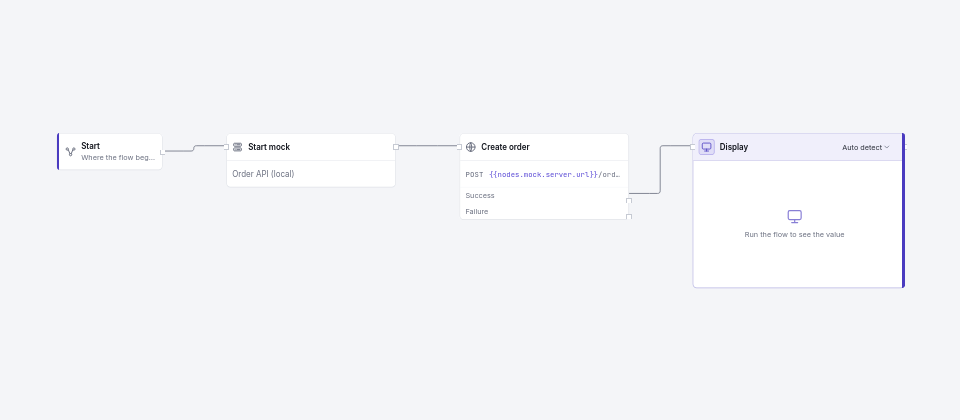
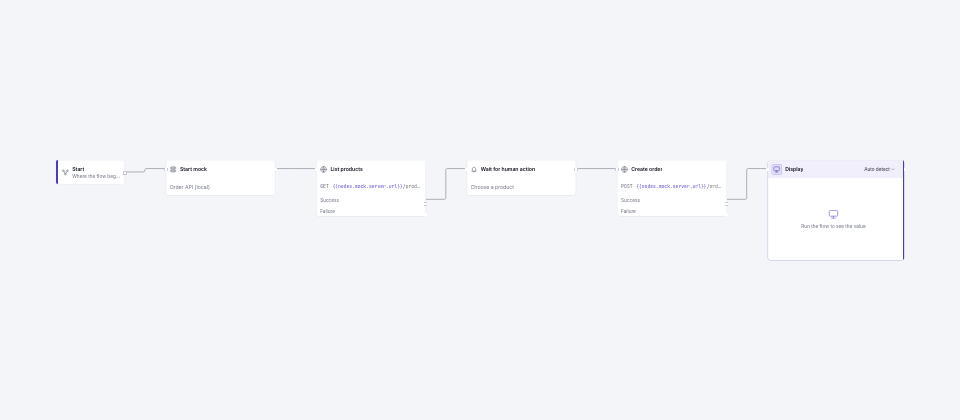
feat(flows): pick catalog items in the order form template

diff --git a/apps/desktop/src/features/flows/flow-templates.ts b/apps/desktop/src/features/flows/flow-templates.ts
@@ -101,6 +101,23 @@ export function createFlowFromTemplate(templateId: FlowTemplateId, t: Translate)
         corsEnabled: true,
         routes: [{
           id: crypto.randomUUID(),
+          name: t('flows.templates.orderForm.productsRoute'),
+          enabled: true,
+          method: 'GET',
+          path: '/products',
+          defaultResponse: {
+            id: crypto.randomUUID(),
+            name: t('flows.templates.orderForm.productsResponse'),
+            enabled: true,
+            status: 200,
+            headers: [{ name: 'content-type', value: 'application/json' }],
+            body: '{\n  "products": [\n    { "id": "notebook", "name": "Notebook", "price": 4299 },\n    { "id": "monitor", "name": "Monitor", "price": 1899 },\n    { "id": "keyboard", "name": "Keyboard", "price": 499 }\n  ]\n}',
+            delayMs: 0,
+            condition: null,
+          },
+          alternatives: [],
+        }, {
+          id: crypto.randomUUID(),
           name: t('flows.templates.orderForm.route'),
           enabled: true,
           method: 'POST',
@@ -141,14 +158,37 @@ export function createFlowFromTemplate(templateId: FlowTemplateId, t: Translate)
       }
       nodes[0] = { id: 'start', kind: 'start', form, position: { x: 0, y: 0 } }
       nodes.push({ id: 'mock', kind: 'mockStart', source: { type: 'inline', server }, position: position(1) })
-      request('order', 'flows.templates.orderForm.request', '{{nodes.mock.server.url}}/orders', 2, {
+      request('products', 'flows.templates.orderForm.productsRequest', '{{nodes.mock.server.url}}/products', 2)
+      const chooseForm: FlowForm = {
+        title: t('flows.templates.orderForm.chooseTitle'),
+        description: t('flows.templates.orderForm.chooseDescription'),
+        sections: [
+          formSection('catalog', 'flows.templates.orderForm.productSection', [
+            formField('product', 'flows.templates.orderForm.product', 'result', {
+              required: true,
+              source: {
+                view: 'table',
+                reference: '{{nodes.products.response.body.products}}',
+                columns: [
+                  { path: 'name', label: t('flows.templates.orderForm.productName') },
+                  { path: 'price', label: t('flows.templates.orderForm.productPrice') },
+                ],
+              },
+            }),
+          ]),
+        ],
+      }
+      nodes.push({ id: 'choose', kind: 'humanAction', form: chooseForm, position: position(3) })
+      request('order', 'flows.templates.orderForm.request', '{{nodes.mock.server.url}}/orders', 4, {
         method: 'post',
         headers: [{ name: 'Content-Type', value: 'application/json', enabled: true }],
-        body: { type: 'raw', rawLanguage: 'json', content: '{\n  "customer": "{{nodes.start.form.customer}}",\n  "quantity": {{nodes.start.form.quantity}},\n  "priority": "{{nodes.start.form.priority}}",\n  "giftWrap": {{nodes.start.form.giftWrap}}\n}' },
+        body: { type: 'raw', rawLanguage: 'json', content: '{\n  "customer": "{{nodes.start.form.customer}}",\n  "quantity": {{nodes.start.form.quantity}},\n  "priority": "{{nodes.start.form.priority}}",\n  "giftWrap": {{nodes.start.form.giftWrap}},\n  "productId": "{{nodes.choose.form.product.id}}"\n}' },
       })
-      display('result', '{{nodes.order.response.body}}', 3)
+      display('result', '{{nodes.order.response.body}}', 5)
       connect('start', 'mock')
-      connect('mock', 'order')
+      connect('mock', 'products')
+      connect('products', 'choose', 'success')
+      connect('choose', 'order')
       connect('order', 'result', 'success')
       break
     }

diff --git a/apps/desktop/src/shared/i18n/locales/pt-BR.ts b/apps/desktop/src/shared/i18n/locales/pt-BR.ts
@@ -997,8 +997,8 @@ const ptBR = {
   'flows.templates.repeat.description': 'Execute um request três vezes, com uma pausa entre as iterações.',
   'flows.templates.repeat.instructions': 'Antes de executar: configure baseUrl e adapte /health. O loop executa três vezes com uma pausa de um segundo após cada request bem-sucedido. Ajuste a condição e o limite de iterações juntos. Um request com falha não avança o contador.',
   'flows.templates.orderForm.name': 'Formulário com mock local',
-  'flows.templates.orderForm.description': 'Preencha um formulário de pedido e envie para um mock server local.',
-  'flows.templates.orderForm.instructions': 'Este template é autossuficiente: o bloco de mock liga um servidor local na porta 3010, sem depender de uma API externa. Preencha o formulário ao executar o flow. Se a porta estiver ocupada, troque-a no bloco de mock; a URL acompanha automaticamente.',
+  'flows.templates.orderForm.description': 'Preencha um pedido, escolha um produto de um catálogo local e envie para um mock inline.',
+  'flows.templates.orderForm.instructions': 'Este template é autossuficiente: o bloco de mock liga um servidor local na porta 3010 com um catálogo de produtos e uma rota de pedidos. Preencha o formulário para iniciar o flow e, quando a ação humana pausar, escolha um dos produtos retornados pelo primeiro request. O segundo request envia o ID do produto escolhido. Se a porta estiver ocupada, troque-a no bloco de mock; as URLs acompanham automaticamente.',
   'flows.templates.orderForm.formTitle': 'Novo pedido',
   'flows.templates.orderForm.formDescription': 'Preencha o pedido. O flow envia os dados para um mock server local.',
   'flows.templates.orderForm.orderSection': 'Pedido',
@@ -1010,6 +1010,15 @@ const ptBR = {
   'flows.templates.orderForm.notes': 'Observações',
   'flows.templates.orderForm.standard': 'Normal',
   'flows.templates.orderForm.express': 'Expressa',
+  'flows.templates.orderForm.productsRequest': 'Listar produtos',
+  'flows.templates.orderForm.productsRoute': 'Listar produtos',
+  'flows.templates.orderForm.productsResponse': 'Catálogo',
+  'flows.templates.orderForm.chooseTitle': 'Escolha um produto',
+  'flows.templates.orderForm.chooseDescription': 'Selecione um dos produtos retornados pelo request anterior.',
+  'flows.templates.orderForm.productSection': 'Produto',
+  'flows.templates.orderForm.product': 'Produto',
+  'flows.templates.orderForm.productName': 'Nome',
+  'flows.templates.orderForm.productPrice': 'Preço',
   'flows.templates.orderForm.request': 'Criar pedido',
   'flows.templates.orderForm.mockName': 'API de pedidos (local)',
   'flows.templates.orderForm.route': 'Criar pedido',

diff --git a/apps/desktop/src/shared/i18n/locales/en.ts b/apps/desktop/src/shared/i18n/locales/en.ts
@@ -1003,8 +1003,8 @@ const en: Record<TranslationKey, string> = {
   'flows.templates.repeat.description': 'Run a request three times, pausing between iterations.',
   'flows.templates.repeat.instructions': 'Before running: configure baseUrl and adapt /health. The loop runs three times with a one-second pause after each successful request. Adjust the condition and iteration limit together. A failed request does not advance the counter.',
   'flows.templates.orderForm.name': 'Form with a local mock',
-  'flows.templates.orderForm.description': 'Collect order data in a form and send it to an inline mock server.',
-  'flows.templates.orderForm.instructions': 'This template is self-contained: the mock block starts a local server on port 3010, so no external API is needed. Fill in the form when you run the flow. If the port is busy, change it in the mock block and the URL follows automatically.',
+  'flows.templates.orderForm.description': 'Collect an order, choose a product from a local catalog and send it to an inline mock.',
+  'flows.templates.orderForm.instructions': 'This template is self-contained: the mock block starts a local server on port 3010 with a product catalog and an order route. Fill in the form to start the flow, then choose one of the products returned by the first request when the human action pauses. The second request sends the selected product ID. If the port is busy, change it in the mock block and the URLs follow automatically.',
   'flows.templates.orderForm.formTitle': 'New order',
   'flows.templates.orderForm.formDescription': 'Fill in the order. The flow sends it to a local mock server.',
   'flows.templates.orderForm.orderSection': 'Order',
@@ -1016,6 +1016,15 @@ const en: Record<TranslationKey, string> = {
   'flows.templates.orderForm.notes': 'Notes',
   'flows.templates.orderForm.standard': 'Standard',
   'flows.templates.orderForm.express': 'Express',
+  'flows.templates.orderForm.productsRequest': 'List products',
+  'flows.templates.orderForm.productsRoute': 'List products',
+  'flows.templates.orderForm.productsResponse': 'Catalog',
+  'flows.templates.orderForm.chooseTitle': 'Choose a product',
+  'flows.templates.orderForm.chooseDescription': 'Select one of the products returned by the previous request.',
+  'flows.templates.orderForm.productSection': 'Product',
+  'flows.templates.orderForm.product': 'Product',
+  'flows.templates.orderForm.productName': 'Name',
+  'flows.templates.orderForm.productPrice': 'Price',
   'flows.templates.orderForm.request': 'Create order',
   'flows.templates.orderForm.mockName': 'Order API (local)',
   'flows.templates.orderForm.route': 'Create order',

diff --git a/apps/desktop/src/features/flows/flow-templates.test.ts b/apps/desktop/src/features/flows/flow-templates.test.ts
@@ -57,15 +57,24 @@ describe('flow templates', () => {
     expect(repeat.edges.some((edge) => edge.targetNodeId === 'repeat' && edge.sourceNodeId !== 'initialize')).toBe(false)
   })
 
-  it('ships an order form whose request targets its own inline mock', () => {
+  it('ships an order form whose request targets its own inline mock and a human action that picks a catalog item', () => {
     const flow = createFlowFromTemplate('orderForm', t)
     const start = flow.nodes.find((node) => node.kind === 'start')
     const fields = start?.kind === 'start' ? start.form?.sections.flatMap((section) => section.fields) ?? [] : []
     expect(fields.map((field) => field.kind)).toEqual(expect.arrayContaining(['text', 'number', 'select', 'checkbox']))
     const mock = flow.nodes.find((node) => node.kind === 'mockStart')
     expect(mock?.kind === 'mockStart' ? mock.source.type : null).toBe('inline')
-    const request = flow.nodes.find((node) => node.kind === 'inlineRequest')
-    expect(request?.kind === 'inlineRequest' ? request.request.content.endpointUrl : null).toBe('{{nodes.mock.server.url}}/orders')
-    expect(request?.kind === 'inlineRequest' ? request.request.content.body : null).toEqual(expect.objectContaining({ content: expect.stringContaining('{{nodes.start.form.quantity}}') }))
+    const products = flow.nodes.find((node) => node.kind === 'inlineRequest' && node.id === 'products')
+    expect(products?.kind === 'inlineRequest' ? products.request.content.endpointUrl : null).toBe('{{nodes.mock.server.url}}/products')
+    const choose = flow.nodes.find((node) => node.kind === 'humanAction')
+    const product = choose?.kind === 'humanAction' ? choose.form.sections.flatMap((section) => section.fields).find((field) => field.id === 'product') : undefined
+    expect(product?.source?.reference).toBe('{{nodes.products.response.body.products}}')
+    expect(product?.multiple).toBe(false)
+    const order = flow.nodes.find((node) => node.kind === 'inlineRequest' && node.id === 'order')
+    expect(order?.kind === 'inlineRequest' ? order.request.content.endpointUrl : null).toBe('{{nodes.mock.server.url}}/orders')
+    const body = order?.kind === 'inlineRequest' ? order.request.content.body : null
+    expect(body).toEqual(expect.objectContaining({ content: expect.stringContaining('{{nodes.start.form.quantity}}') }))
+    expect(body).toEqual(expect.objectContaining({ content: expect.stringContaining('{{nodes.choose.form.product.id}}') }))
+    expect(flow.edges).toContainEqual(expect.objectContaining({ sourceNodeId: 'products', targetNodeId: 'choose', sourceHandle: 'success' }))
   })
 })

diff --git a/CHANGELOG.md b/CHANGELOG.md
@@ -11,7 +11,7 @@ O formato segue o [Keep a Changelog](https://keepachangelog.com/pt-BR/1.1.0/) e 
 - **Formulários nos flows**: o início do flow pode pedir dados antes de executar, com seções expansíveis, textos, quantidades, opções e checkboxes.
 - **Aguardar ação humana**: um bloco pausa o ramo até alguém preencher um formulário, que pode escolher itens retornados por blocos anteriores.
 - **Modo painéis**: esconde o diagrama e mostra os formulários e resultados escolhidos em cartões que podem ser posicionados livremente e acompanham a execução.
-- Template "Formulário com mock local": pede os dados de um pedido em um formulário e envia para um mock local, sem precisar configurar uma API.
+- Template "Formulário com mock local": pede os dados de um pedido em um formulário, deixa escolher um produto de um catálogo e envia para um mock inline.
 - Templates com uma galeria visual para criar flows em branco ou partir de exemplos prontos.
 - Pastas no módulo de flows para agrupar e organizar os flows do workspace.
 - O gravador de HAR também grava as requisições feitas pelos flows, com headers e resposta, para inspecionar e salvar junto com os envios manuais.
